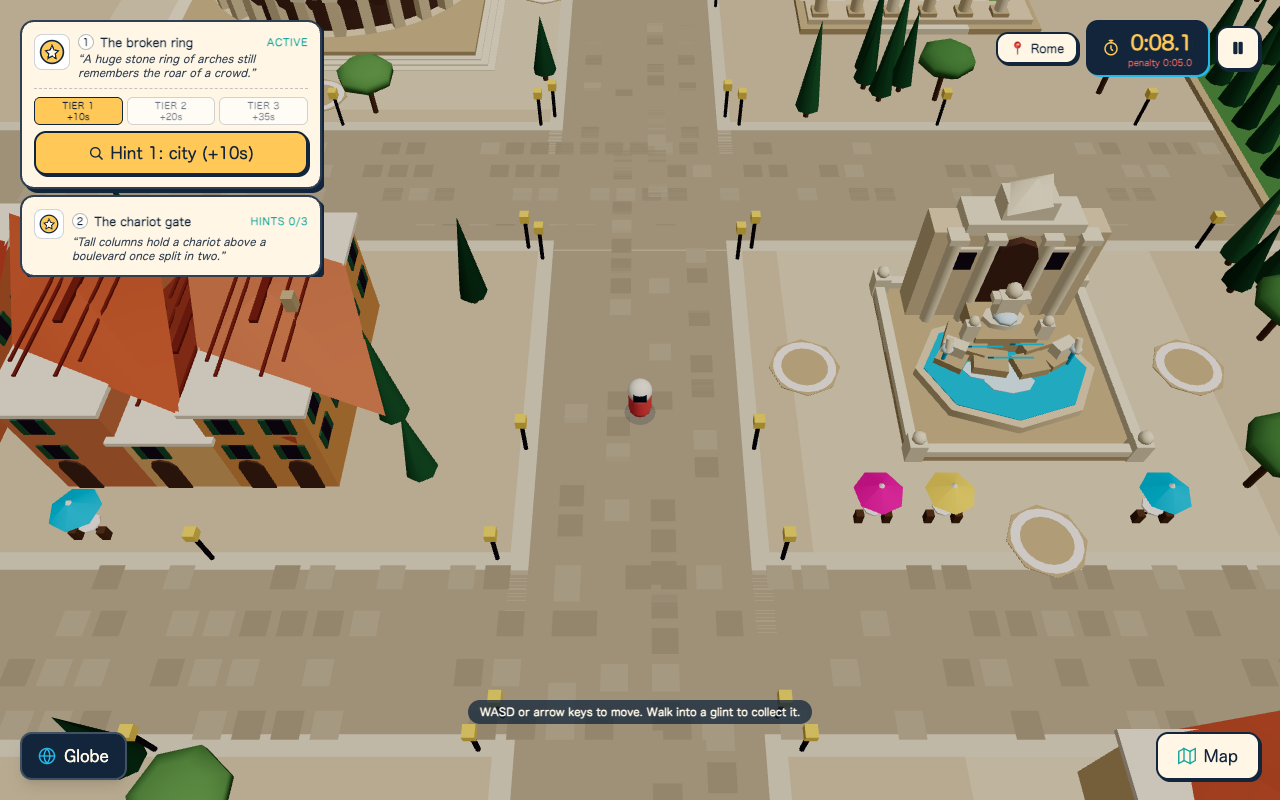
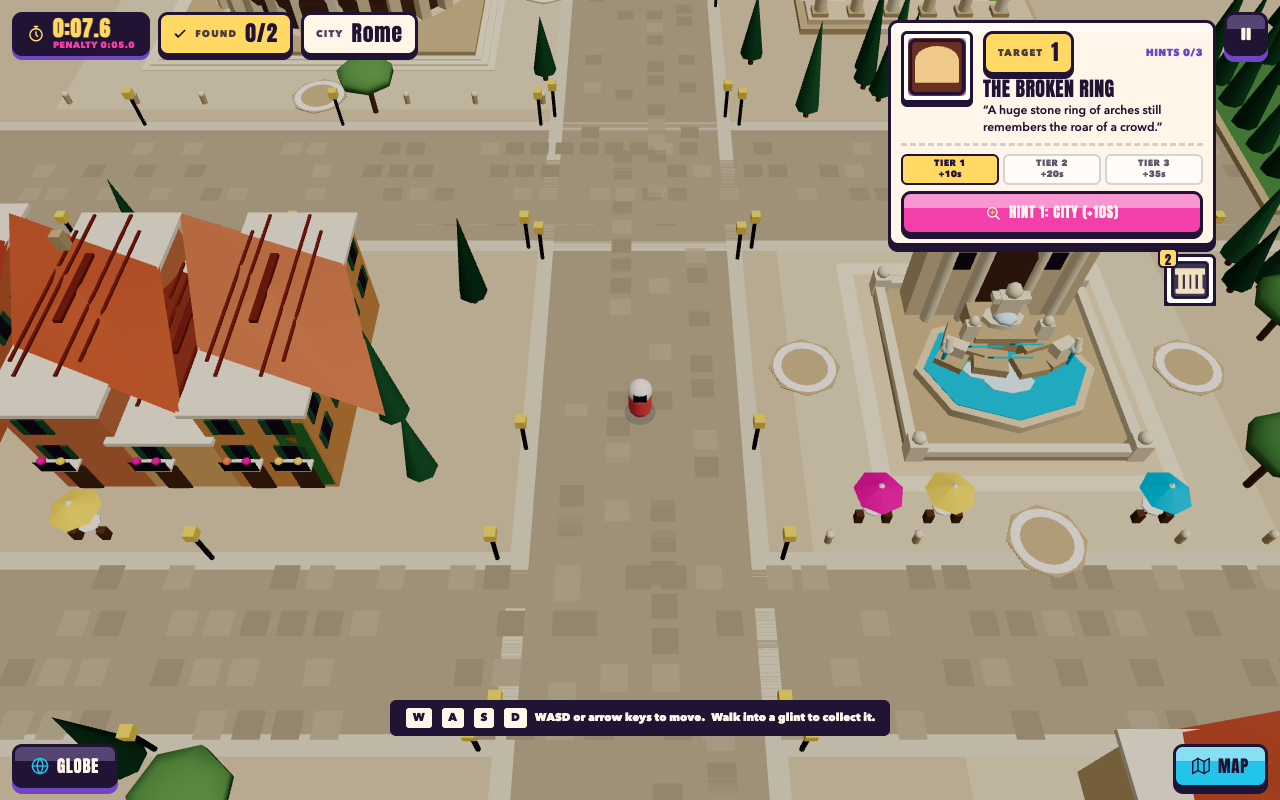
A8: Rome pass 4 — Colosseum cavea/hypogeum/portal/statues, house doors, balconies and ivy, fountain steps, piazza bollards

diff --git a/src/cities/rome/RomeScene.tsx b/src/cities/rome/RomeScene.tsx
@@ -74,6 +74,10 @@ const COBBLE_DARK = '#ab9d83';
 const COBBLE_LIGHT = '#bfb095';
 const GRASS_TONE = '#7fa35a';
 const FOAM_TONE = '#dff7ff';
+const SEAT_TONES = ['#e3cda6', '#d6bd93'] as const;
+const IVY_TONE = '#4f8a45';
+const FLOWER_TONES = ['#f43fab', '#ffd963', '#ff8a5b'] as const;
+const RAILING_TONE = '#2b2530';
 const SHUTTER_TONE = '#3f6b4f';
 const WINDOW_TONE = '#3a2a3f';
 const TRIM_TONE = '#f9ecd6';
@@ -289,13 +293,33 @@ function buildHouses(houses: readonly House[], rng: Rng, quality: Quality, batch
         batches.cylinders.push({ x, y: 2.6, z: frontZ, sx: 1.6, sy: 0.12, sz: 1.6, rx: Math.PI / 2, color: ARCH_SHADOW });
       }
     }
-    // Windows with shutters on upper floors, on every outer face except -Z.
+    // A wooden door in the middle arch and ivy climbing one corner of the front.
+    if (rect.maxZ >= outer.maxZ - 0.01) {
+      const doorX = rect.minX + 1.6 + Math.floor(Math.max(0, (width(rect) - 3.2) / 3.2) / 2) * 3.2;
+      batches.boxes.push({ x: doorX, y: 1.1, z: frontZ + 0.02, sx: 1.2, sy: 2.2, sz: 0.1, color: TRUNK_TONE });
+      if (rng.next() < 0.45) {
+        const ivyX = rng.next() < 0.5 ? rect.minX + 0.8 : rect.maxX - 0.8;
+        batches.flats.push({ x: ivyX, y: height * 0.45, z: frontZ + 0.03, sx: 1.4, sy: height * 0.8, sz: 1, color: IVY_TONE });
+        batches.flats.push({ x: ivyX + (ivyX < centerX(rect) ? 0.9 : -0.9), y: height * 0.7, z: frontZ + 0.03, sx: 1.0, sy: height * 0.35, sz: 1, color: IVY_TONE });
+      }
+    }
+    // Windows with shutters on upper floors, on every outer face except -Z; some get a balcony.
+    let floor = 0;
     for (let y = 4.4; y <= height - 1.2; y += 2.8) {
+      floor += 1;
       if (rect.maxZ >= outer.maxZ - 0.01) {
         for (let x = rect.minX + 1.6; x <= rect.maxX - 1.6; x += 3.2) {
           batches.boxes.push({ x, y, z: frontZ, sx: 1.0, sy: 1.5, sz: 0.1, color: WINDOW_TONE });
           batches.boxes.push({ x: x - 0.75, y, z: frontZ, sx: 0.4, sy: 1.5, sz: 0.14, color: SHUTTER_TONE });
           batches.boxes.push({ x: x + 0.75, y, z: frontZ, sx: 0.4, sy: 1.5, sz: 0.14, color: SHUTTER_TONE });
+          if (floor === 1 && rng.next() < 0.5) {
+            // Balcony: stone slab, iron railing, flower box.
+            batches.boxes.push({ x, y: y - 0.85, z: frontZ + 0.45, sx: 2.2, sy: 0.16, sz: 0.9, color: TRIM_TONE });
+            batches.boxes.push({ x, y: y - 0.35, z: frontZ + 0.88, sx: 2.2, sy: 0.9, sz: 0.06, color: RAILING_TONE });
+            batches.boxes.push({ x, y: y + 0.12, z: frontZ + 0.88, sx: 2.3, sy: 0.06, sz: 0.06, color: RAILING_TONE });
+            batches.spheres.push({ x: x - 0.6, y: y + 0.2, z: frontZ + 0.8, sx: 0.28, sy: 0.24, sz: 0.28, color: rng.pick(FLOWER_TONES) });
+            batches.spheres.push({ x: x + 0.6, y: y + 0.2, z: frontZ + 0.8, sx: 0.28, sy: 0.24, sz: 0.28, color: rng.pick(FLOWER_TONES) });
+          }
         }
       }
       for (const side of [-1, 1] as const) {
@@ -400,6 +424,23 @@ function buildColosseum(landmark: Landmark, quality: Quality, batches: Batches):
   // Arena floor and low inner wall.
   batches.cylinders.push({ x: cx, y: plinthHeight + 0.15, z: cz, sx: rx * 1.25, sy: 0.3, sz: rz * 1.25, color: ARENA_SAND });
   batches.shells.push({ x: cx, y: plinthHeight + 1.4, z: cz, sx: rx * 1.25, sy: 2.8, sz: rz * 1.25, color: TRAVERTINE_DARK });
+  // Hypogeum: two dark trenches cut through the arena sand.
+  batches.flats.push({ x: cx, y: plinthHeight + 0.31, z: cz, sx: rx * 1.1, sy: 1.4, sz: 1, rx: FLAT, color: ARCH_SHADOW });
+  batches.flats.push({ x: cx, y: plinthHeight + 0.31, z: cz, sx: 1.4, sy: rz * 1.1, sz: 1, rx: FLAT, color: ARCH_SHADOW });
+  // Cavea: stepped seating rings climbing from the arena wall up to the second tier floor.
+  const seatRows = quality === 'low' ? 3 : 6;
+  for (let row = 0; row < seatRows; row += 1) {
+    const t = (row + 1) / (seatRows + 1);
+    const sx = rx * 1.25 + (rx * 2 - 2.6 - rx * 1.25) * t;
+    const sz = rz * 1.25 + (rz * 2 - 2.6 - rz * 1.25) * t;
+    batches.tierFloors.push({ x: cx, y: plinthHeight + 2.8 + t * (TIER_HEIGHT * 2 - 3.2), z: cz, sx, sy: sz, sz: 1, rx: FLAT, color: SEAT_TONES[row % 2]! });
+  }
+  // Grand entrance portal on the +Z (camera-facing) side, cut through the ground tier.
+  const portalZ = cz + rz - 0.4;
+  batches.boxes.push({ x: cx, y: plinthHeight + 2.6, z: portalZ, sx: 4.2, sy: 5.2, sz: 1.6, color: TRAVERTINE_LIGHT });
+  batches.boxes.push({ x: cx, y: plinthHeight + 1.9, z: portalZ + 0.2, sx: 2.6, sy: 3.8, sz: 1.6, color: ARCH_SHADOW });
+  batches.cylinders.push({ x: cx, y: plinthHeight + 3.8, z: portalZ + 0.2, sx: 2.6, sy: 1.6, sz: 2.6, rx: Math.PI / 2, color: ARCH_SHADOW });
+  batches.boxes.push({ x: cx, y: plinthHeight + 5.5, z: portalZ, sx: 5.0, sy: 0.6, sz: 1.9, color: TRAVERTINE_LIGHT });
 
   for (let tier = 0; tier < TIER_COUNT; tier += 1) {
     const y0 = plinthHeight + tier * TIER_HEIGHT;
@@ -425,6 +466,17 @@ function buildColosseum(landmark: Landmark, quality: Quality, batches: Batches):
       batches.cylinders.push({ x: ax, y: y0 + TIER_HEIGHT - 1.55, z: az, sx: 1.9, sy: 0.5, sz: 1.9, rx: Math.PI / 2, ry: -mid, color: ARCH_SHADOW });
       batches.boxes.push({ x: ax, y: y0 + TIER_HEIGHT - 0.9, z: az, sx: 0.5, sy: 0.7, sz: 0.5, ry: -mid, color: TRAVERTINE_LIGHT });
       batches.boxes.push({ x: px, y: y0 + TIER_HEIGHT - 1.15, z: pz, sx: 1.4, sy: 0.3, sz: 1.4, ry: -angle, color: TRAVERTINE_LIGHT });
+    }
+  }
+  // Statues in the second-tier arches facing the piazza.
+  if (quality !== 'low') {
+    for (const angle of [Math.PI / 2 - 0.42, Math.PI / 2 - 0.21, Math.PI / 2 + 0.21, Math.PI / 2 + 0.42]) {
+      const sxp = cx + Math.cos(angle) * (rx - 0.7 - 0.9);
+      const szp = cz + Math.sin(angle) * (rz - 0.7 - 0.9);
+      const y0 = plinthHeight + TIER_HEIGHT;
+      batches.boxes.push({ x: sxp, y: y0 + 0.4, z: szp, sx: 1.0, sy: 0.8, sz: 1.0, ry: -angle, color: TRAVERTINE_DARK });
+      batches.boxes.push({ x: sxp, y: y0 + 1.7, z: szp, sx: 0.7, sy: 1.8, sz: 0.5, ry: -angle, color: TRAVERTINE_LIGHT });
+      batches.spheres.push({ x: sxp, y: y0 + 2.85, z: szp, sx: 0.3, sy: 0.32, sz: 0.3, color: TRAVERTINE_LIGHT });
     }
   }
   // Three shallow steps around the plinth so the base reads from ground level.
@@ -497,6 +549,9 @@ function buildFountain(landmark: Landmark, quality: Quality, batches: Batches): 
   const size = Math.min(width(footprint), depth(footprint));
   batches.flats.push(flatItem(grow(footprint, 7), 0.012, PIAZZA_TONE));
 
+  // Two shallow visual steps (flat quads, nothing solid) leading up to the balustrade.
+  batches.flats.push(flatItem(grow(footprint, 2.4), 0.03, TRAVERTINE_LIGHT));
+  batches.flats.push(flatItem(grow(footprint, 1.2), 0.04, TRAVERTINE));
   // Low balustrade exactly on the collision rectangle, with corner posts.
   batches.boxes.push(boxItem(footprint, 0, 0.5, TRAVERTINE_DARK));
   for (const x of [footprint.minX + 0.35, footprint.maxX - 0.35]) {
@@ -737,6 +792,18 @@ function buildProps(definition: CityDefinition, rng: Rng, quality: Quality, batc
       if (rng.next() < 0.4 || !isPropSafe(definition, x, z)) continue;
       cafeTable(x, z, UMBRELLA_TONES[tables % UMBRELLA_TONES.length]!, batches);
       tables += 1;
+    }
+  }
+  // Stone bollards ringing the Colosseum and fountain piazzas.
+  for (const landmark of definition.landmarks) {
+    if (landmark.silhouette === 'cafe') continue;
+    const ring = grow(landmark.footprint, landmark.silhouette === 'colosseum' ? 7 : 6);
+    for (let x = ring.minX; x <= ring.maxX + 0.01; x += (width(ring) / Math.round(width(ring) / 6))) {
+      for (const z of [ring.minZ, ring.maxZ]) {
+        if (!isPropSafe(definition, x, z)) continue;
+        batches.cylinders.push({ x, y: 0.45, z, sx: 0.5, sy: 0.9, sz: 0.5, color: TRAVERTINE_DARK });
+        batches.spheres.push({ x, y: 0.95, z, sx: 0.3, sy: 0.3, sz: 0.3, color: TRAVERTINE_LIGHT });
+      }
     }
   }
   for (const road of definition.roads) {
